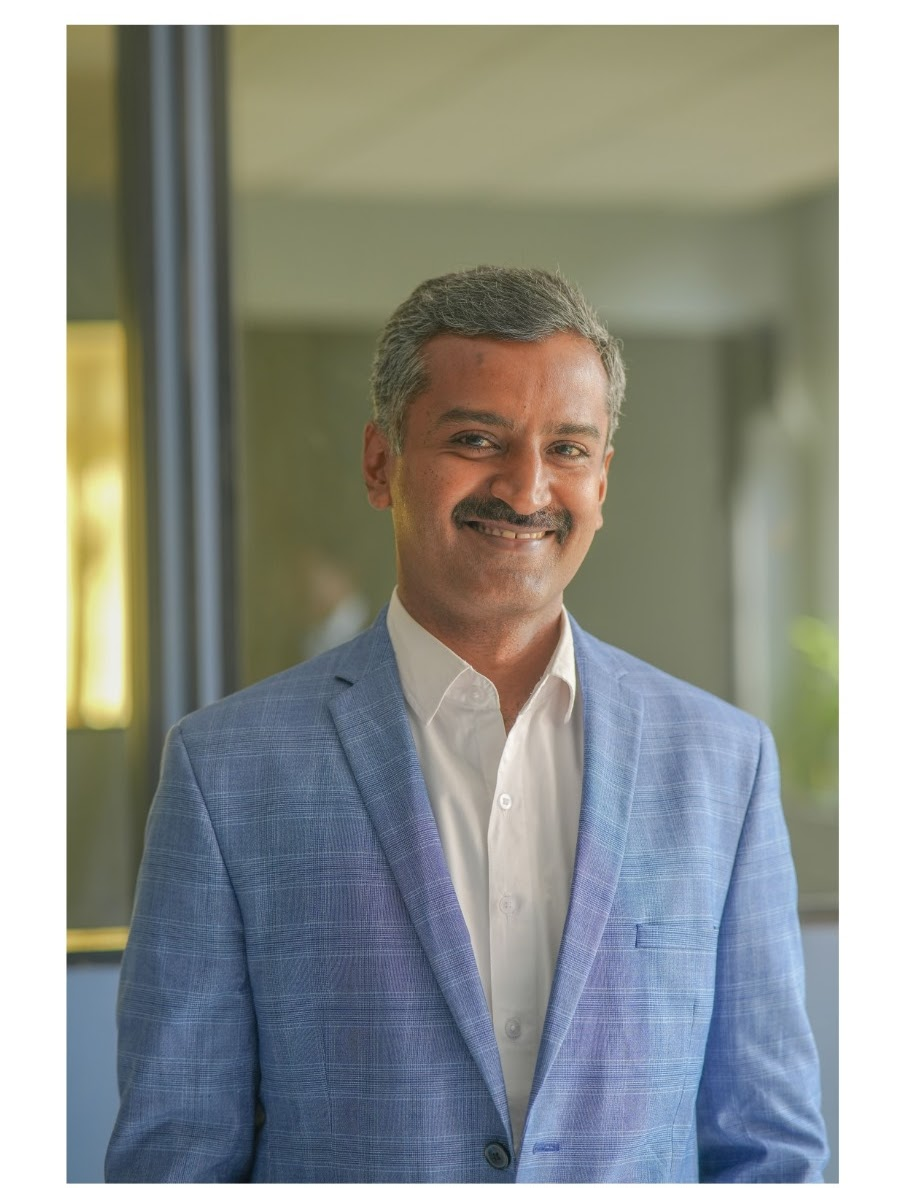
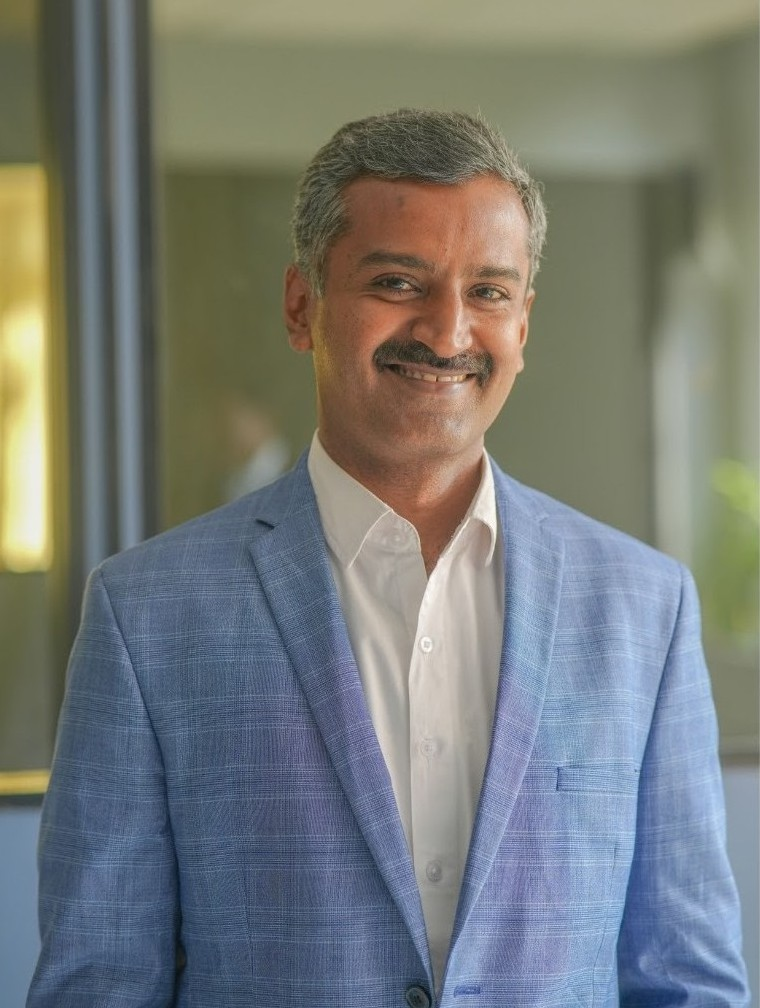
photo change

diff --git a/index.html b/index.html
@@ -1338,7 +1338,7 @@
                         <p>“Peace is hard-earned, intentional, and sustained through listening, inclusion, and hope.”</p>
                         <div class="team-member">
                             <div class="team-avatar">
-                                <img src="director.jpg" alt="Dr. Padmakumar M M" loading="lazy">
+                                <img src="peaceaxis_image5.jpg" alt="Dr. Padmakumar M M" loading="lazy">
                             </div>
                             <div class="team-info">
                                 <h4>Dr. Padmakumar M M</h4>
@@ -1348,7 +1348,7 @@
                         </div>
                         <div class="team-member">
                             <div class="team-avatar">
-                                <img src="student_coordinator.jpg" alt="Ravi Ranjan" loading="lazy">
+                                <img src="Ravi ranjan.jpeg" alt="Ravi Ranjan" loading="lazy">
                             </div>
                             <div class="team-info">
                                 <h4 style="margin-top: 10px;">RAVI RANJAN SHARMA</h4>
